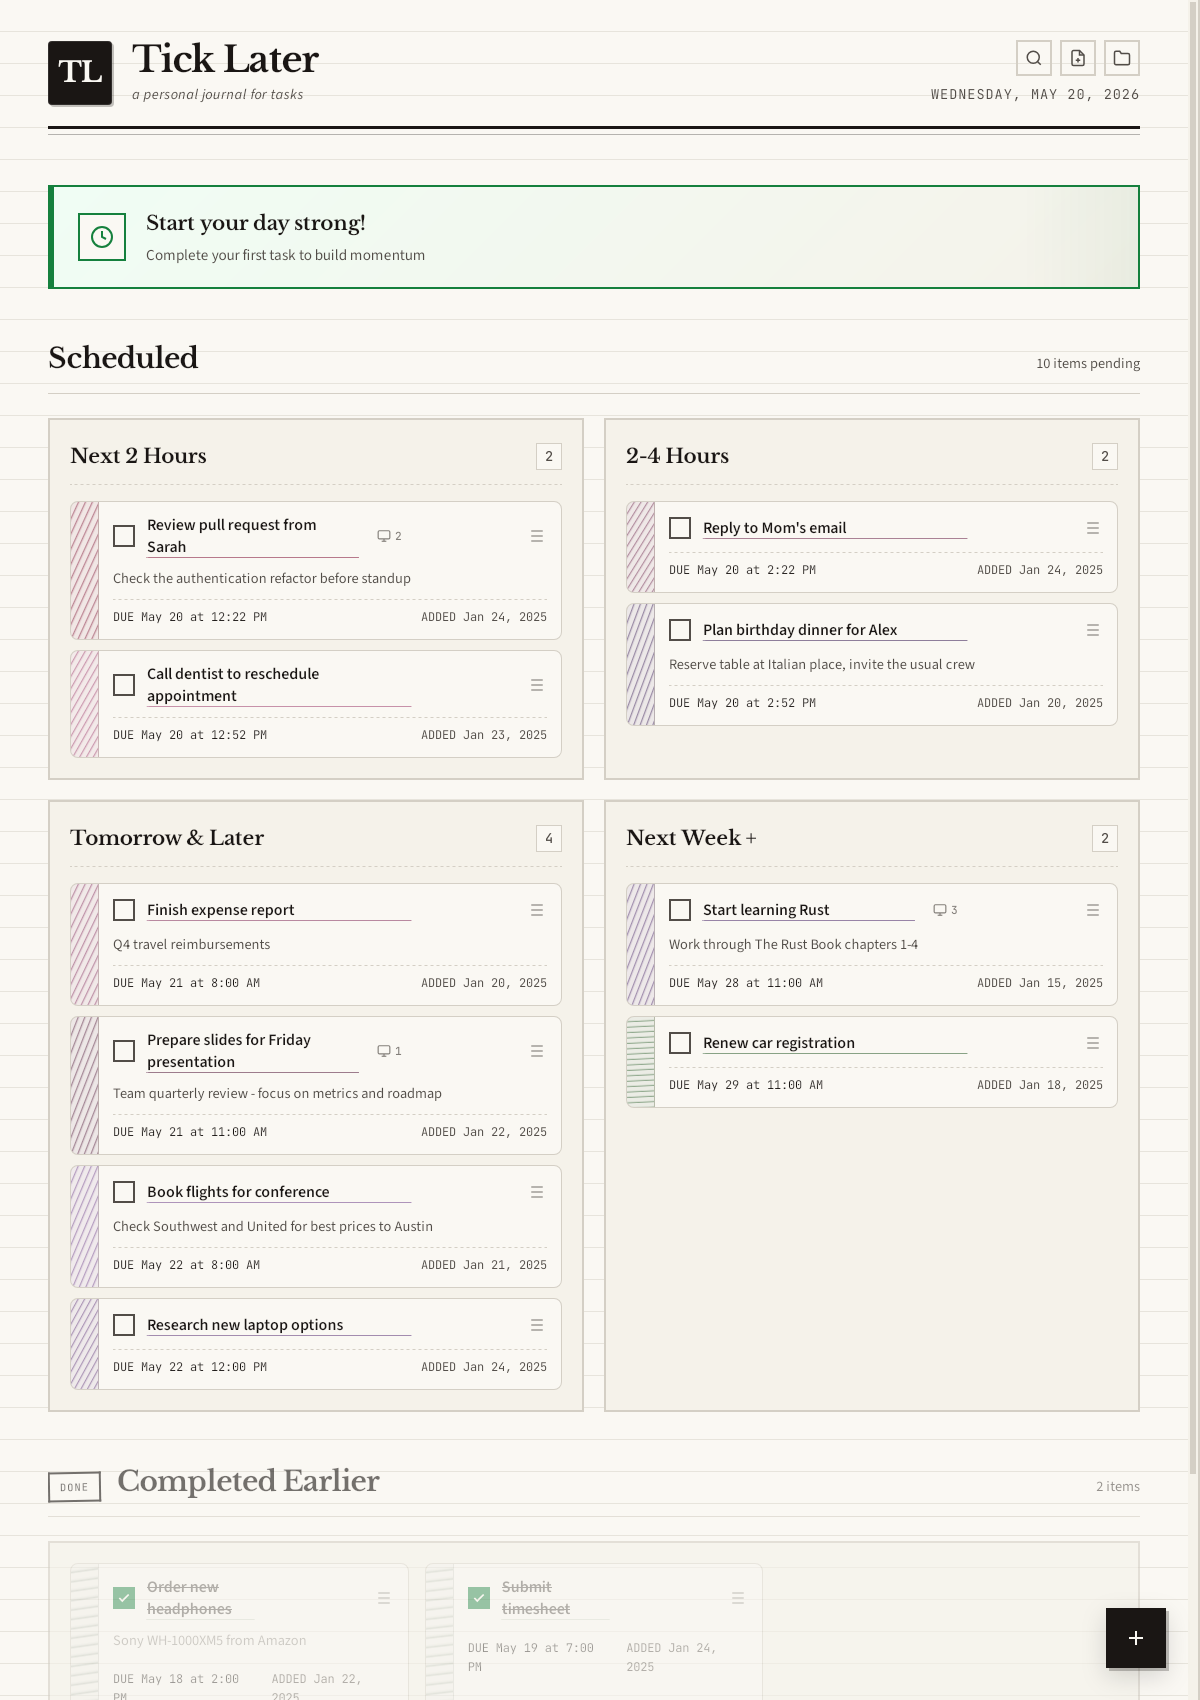
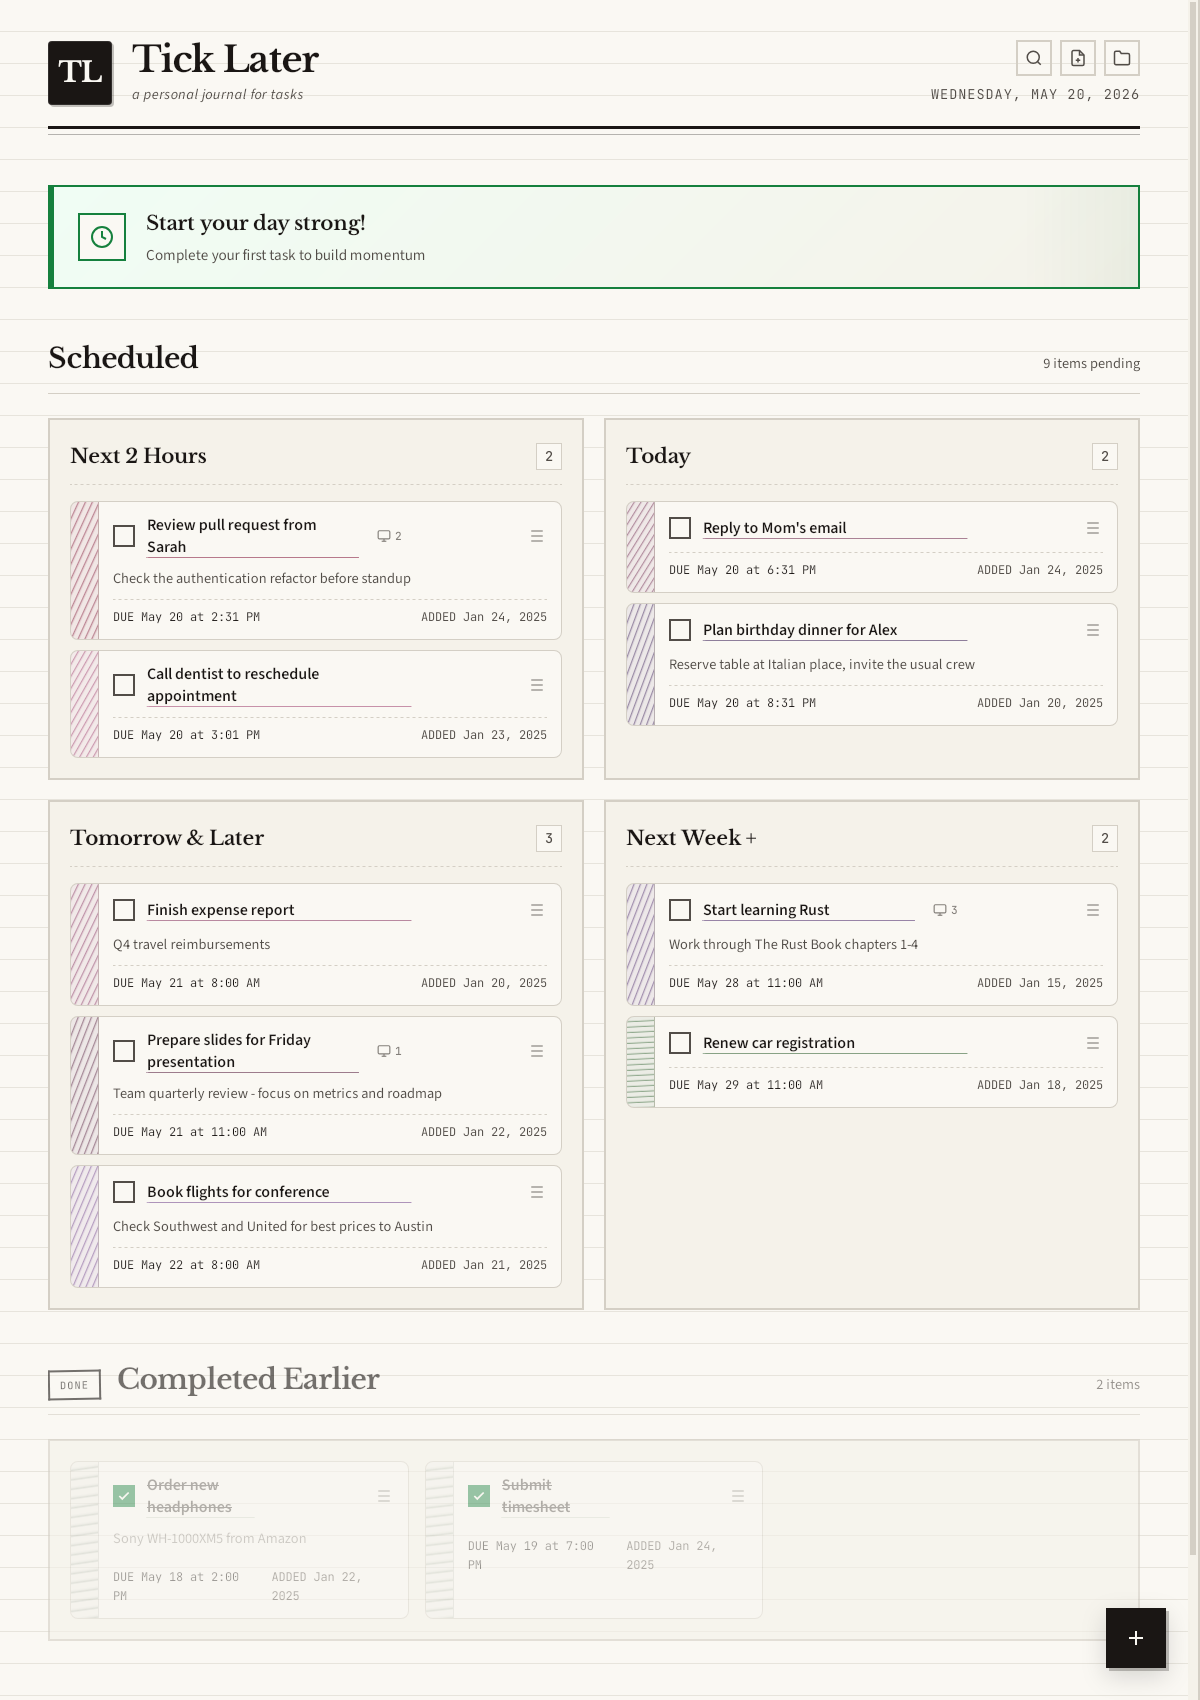
Changed 2-4 hours section into a Today section

diff --git a/src/components/TodoList.vue b/src/components/TodoList.vue
@@ -115,7 +115,6 @@ const motivationalMessage = computed(() => {
 const categorizedPendingTodos = computed(() => {
   const currentTime = now.value;
   const in2Hours = new Date(currentTime.getTime() + 2 * 60 * 60 * 1000);
-  const in4Hours = new Date(currentTime.getTime() + 4 * 60 * 60 * 1000);
   const tomorrow = new Date(currentTime);
   tomorrow.setDate(tomorrow.getDate() + 1);
   tomorrow.setHours(0, 0, 0, 0);
@@ -131,7 +130,7 @@ const categorizedPendingTodos = computed(() => {
 
   const categories = {
     next2Hours: [] as Todo[],
-    next2To4Hours: [] as Todo[],
+    today: [] as Todo[],
     tomorrow: [] as Todo[],
     nextWeek: [] as Todo[]
   };
@@ -141,8 +140,8 @@ const categorizedPendingTodos = computed(() => {
 
     if (revisitDate <= in2Hours) {
       categories.next2Hours.push(todo);
-    } else if (revisitDate <= in4Hours) {
-      categories.next2To4Hours.push(todo);
+    } else if (revisitDate < tomorrow) {
+      categories.today.push(todo);
     } else if (revisitDate < nextWeek) {
       categories.tomorrow.push(todo);
     } else {
@@ -177,9 +176,11 @@ function getTimestampForSection(section: string): string {
       const in1Hour = new Date(now.getTime() + 1 * 60 * 60 * 1000);
       return in1Hour.toISOString();
 
-    case 'next2To4Hours':
-      const in3Hours = new Date(now.getTime() + 3 * 60 * 60 * 1000);
-      return in3Hours.toISOString();
+    case 'today':
+      const todayAt5pm = new Date(now);
+      todayAt5pm.setHours(17, 0, 0, 0);
+      if (todayAt5pm <= now) todayAt5pm.setHours(23, 0, 0, 0);
+      return todayAt5pm.toISOString();
 
     case 'tomorrow':
       const tomorrow = new Date(now);
@@ -368,21 +369,21 @@ function handleLaunchWorkspace(todo: Todo) {
           </div>
         </div>
 
-        <!-- Soon: 2-4 Hours -->
+        <!-- Today (after next 2 hours, before midnight) -->
         <div
           class="time-cell time-cell--soon drop-zone"
-          @drop="handleDrop($event, 'next2To4Hours')"
+          @drop="handleDrop($event, 'today')"
           @dragover="handleDragOver"
           @dragleave="handleDragLeave"
         >
           <header class="cell-header">
-            <span class="cell-label">2-4 Hours</span>
-            <span class="cell-count" v-if="categorizedPendingTodos.next2To4Hours.length">{{ categorizedPendingTodos.next2To4Hours.length }}</span>
+            <span class="cell-label">Today</span>
+            <span class="cell-count" v-if="categorizedPendingTodos.today.length">{{ categorizedPendingTodos.today.length }}</span>
           </header>
           <div class="cell-content">
-            <TransitionGroup name="list" tag="div" class="items-column" v-if="categorizedPendingTodos.next2To4Hours.length">
+            <TransitionGroup name="list" tag="div" class="items-column" v-if="categorizedPendingTodos.today.length">
               <TodoItem
-                v-for="todo in categorizedPendingTodos.next2To4Hours"
+                v-for="todo in categorizedPendingTodos.today"
                 :key="todo.id"
                 :todo="todo"
                 :is-highlighted="props.highlightedTodoId === todo.id"
@@ -397,8 +398,8 @@ function handleLaunchWorkspace(todo: Todo) {
               />
             </TransitionGroup>
             <div v-else class="empty-cell">
-              <span class="empty-text">Clear ahead</span>
-              <span class="drop-hint">Drop to schedule for 3hrs from now</span>
+              <span class="empty-text">Nothing more today</span>
+              <span class="drop-hint">Drop to schedule for today at 5 PM</span>
             </div>
           </div>
         </div>

diff --git a/docs/index.html b/docs/index.html
@@ -651,7 +651,7 @@
   <div class="hero-visual">
     <div class="bucket-tags">
       <span class="bucket-tag bucket-tag--urgent">Next 2 Hours</span>
-      <span class="bucket-tag bucket-tag--soon">2–4 Hours</span>
+      <span class="bucket-tag bucket-tag--soon">Today</span>
       <span class="bucket-tag bucket-tag--tomorrow">Tomorrow &amp; Later</span>
       <span class="bucket-tag bucket-tag--future">Next Week +</span>
     </div>
@@ -682,7 +682,7 @@
             <polyline points="12 6 12 12 16 14"/>
           </svg>
           <h3 class="feat-title">Time-aware scheduling</h3>
-          <p class="feat-desc">Tasks auto-sort into four buckets — <em>Next 2 Hours</em>, <em>2–4 Hours</em>, <em>Tomorrow &amp; Later</em>, <em>Next Week+</em>. Your view updates live as deadlines approach.</p>
+          <p class="feat-desc">Tasks auto-sort into four buckets — <em>Next 2 Hours</em>, <em>Today</em>, <em>Tomorrow &amp; Later</em>, <em>Next Week+</em>. Your view updates live as deadlines approach.</p>
         </div>
       </div>
 

diff --git a/src/components/TodoItem.vue b/src/components/TodoItem.vue
@@ -32,7 +32,7 @@ function toggleDescriptionExpanded() {
 
 const menuOptions = [
   { label: "Next 2 Hours", section: "next2Hours" },
-  { label: "2-4 Hours", section: "next2To4Hours" },
+  { label: "Today", section: "today" },
   { label: "Tomorrow & Later", section: "tomorrow" },
   { label: "Next Week +", section: "nextWeek" },
 ];

diff --git a/src/App.vue b/src/App.vue
@@ -1057,6 +1057,7 @@ body {
 
 #app {
   width: 100%;
+  min-height: 100vh;
   margin: 0;
   padding: 0;
 }
